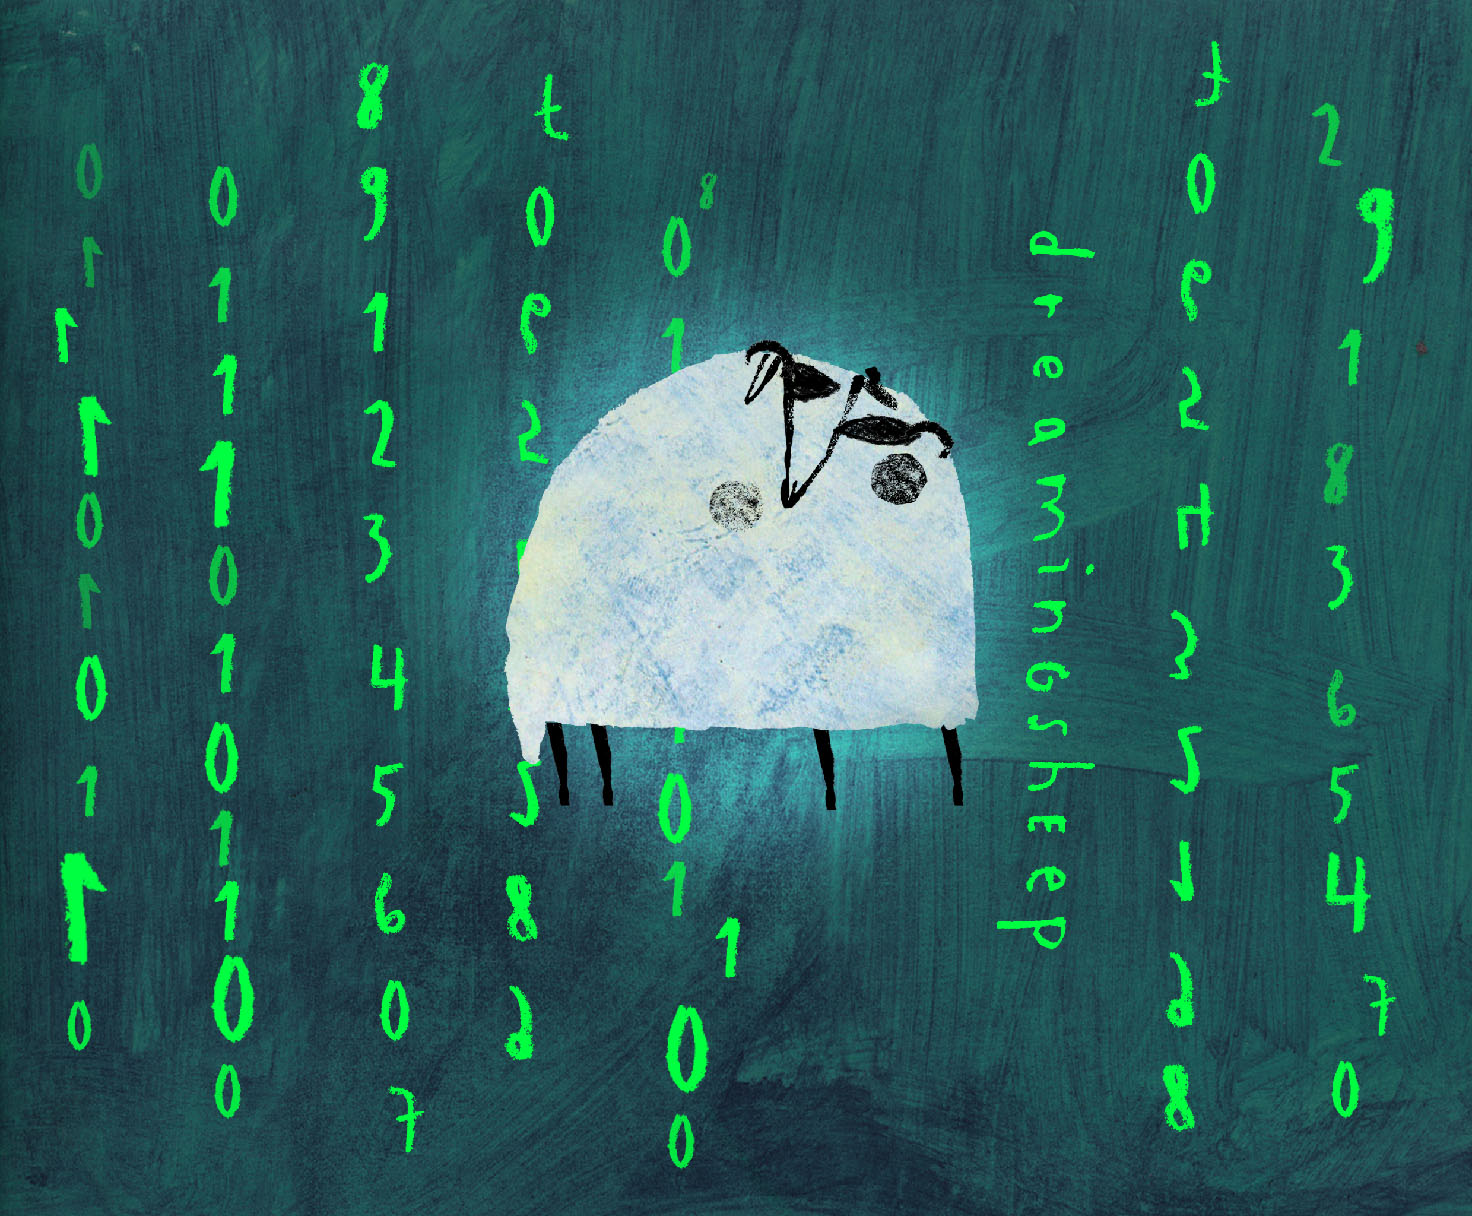
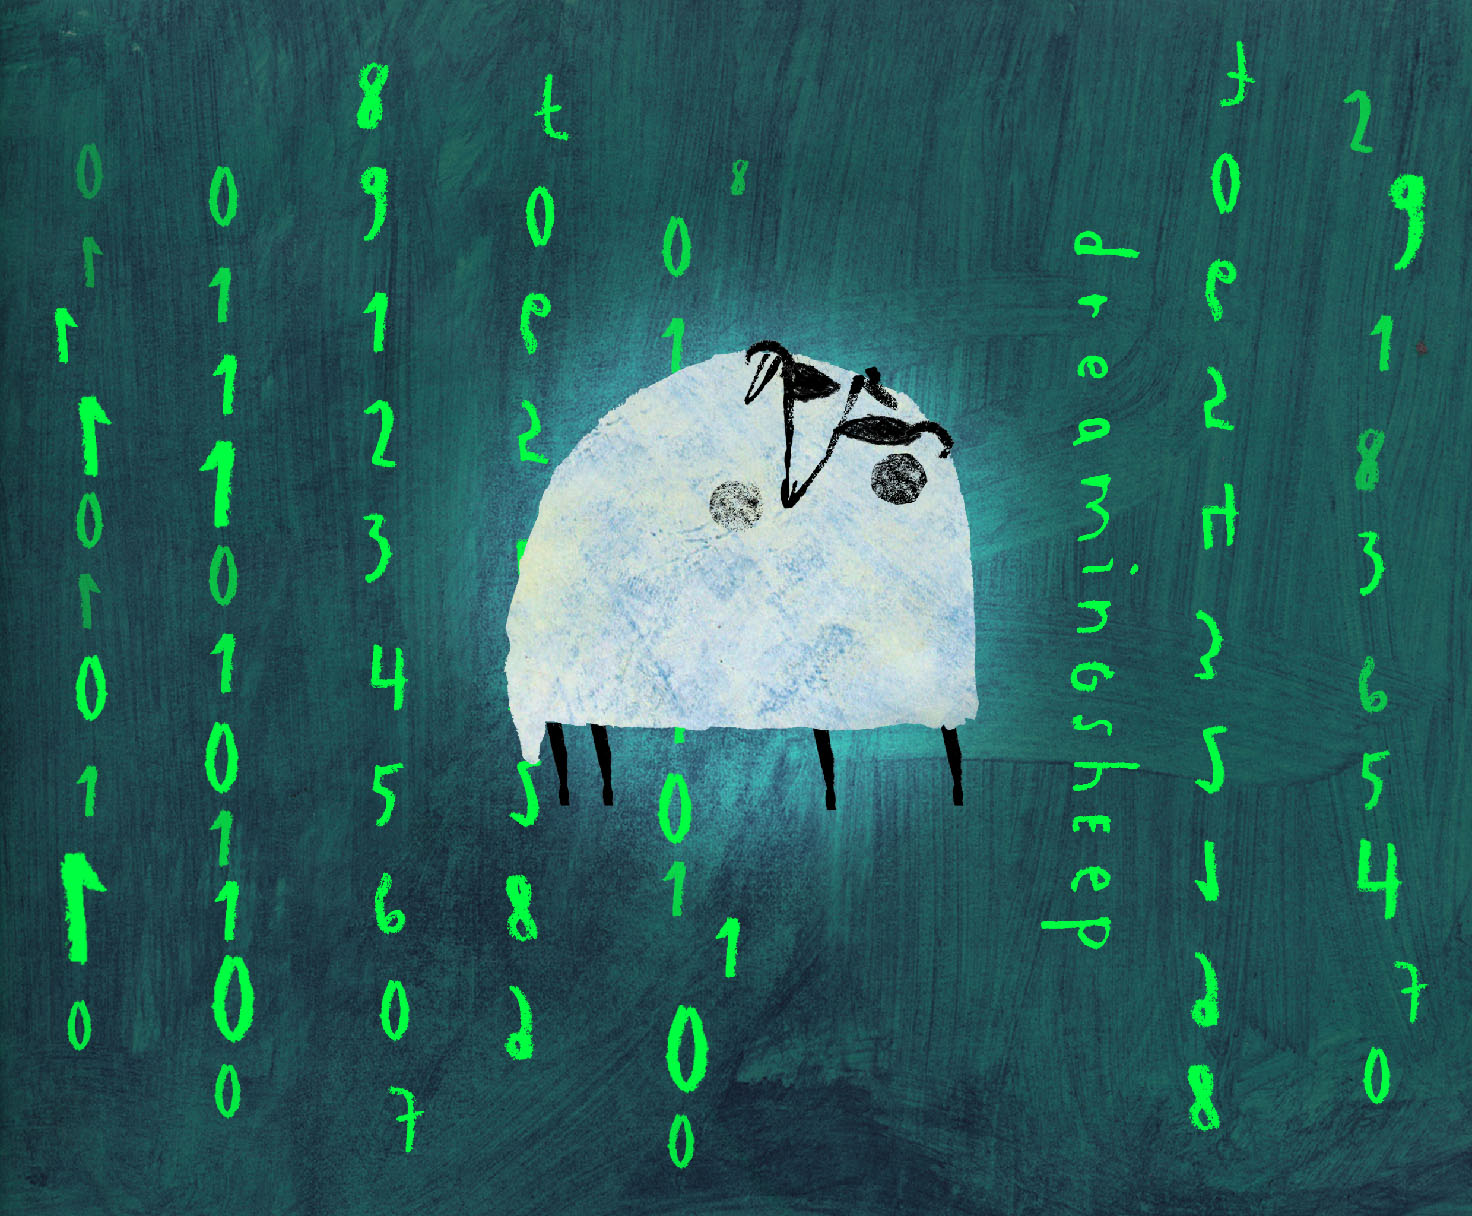
Update the open source blog post excerpt and cover image

diff --git a/src/pages/blog/dreamingsheep-is-now-open-source/data.md b/src/pages/blog/dreamingsheep-is-now-open-source/data.md
@@ -4,6 +4,6 @@ date: "Sun May 3 2026."
 imageUrl: "/assets/sheep-matrix.jpg"
 ---
 
-After much deliberation (and a few prophetic dreams about pull requests), dreamingsheep has officially taken the red pill² and gone open source!
-The code now lives at https://github.com/talpitoo/dreamingsheep for everyone
-to read, study, and contribute to.
+After much deliberation, dreamingsheep has officially taken the red pill¹ and
+gone open source! The code now lives at https://github.com/talpitoo/dreamingsheep for everyone to read, study, and contribute to. Why? Because dreams are more fun
+when shared.
